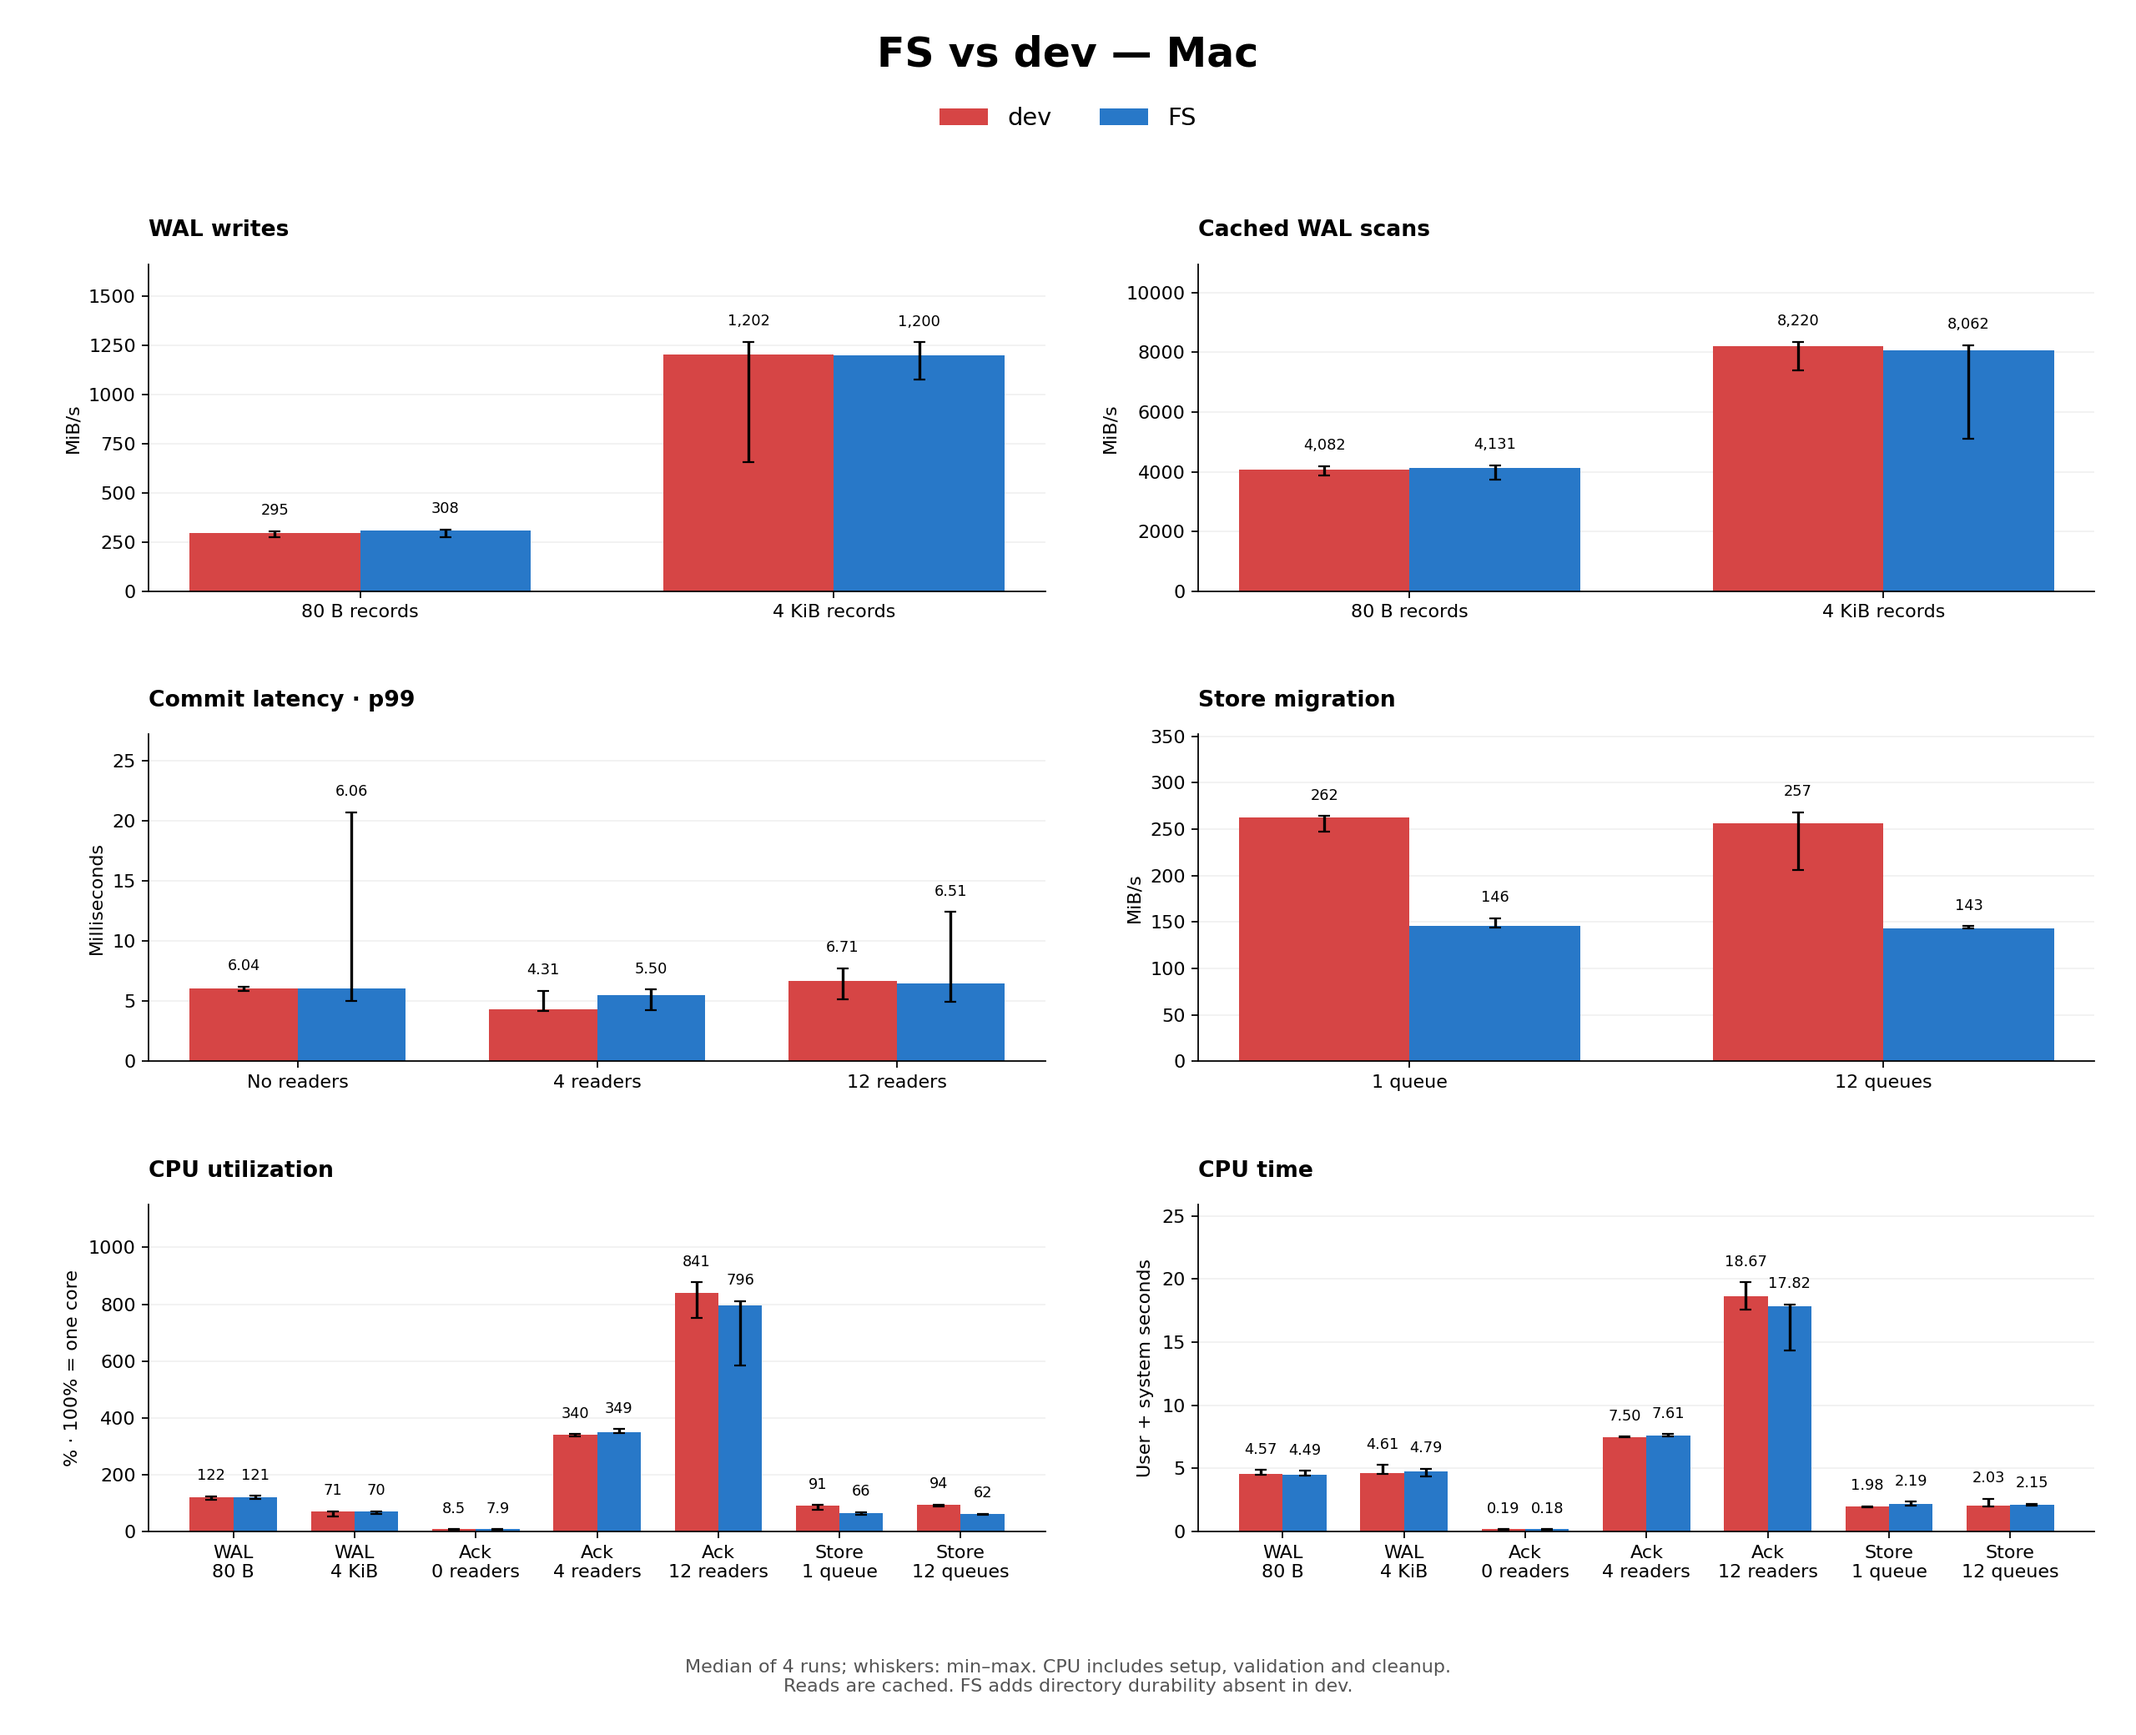
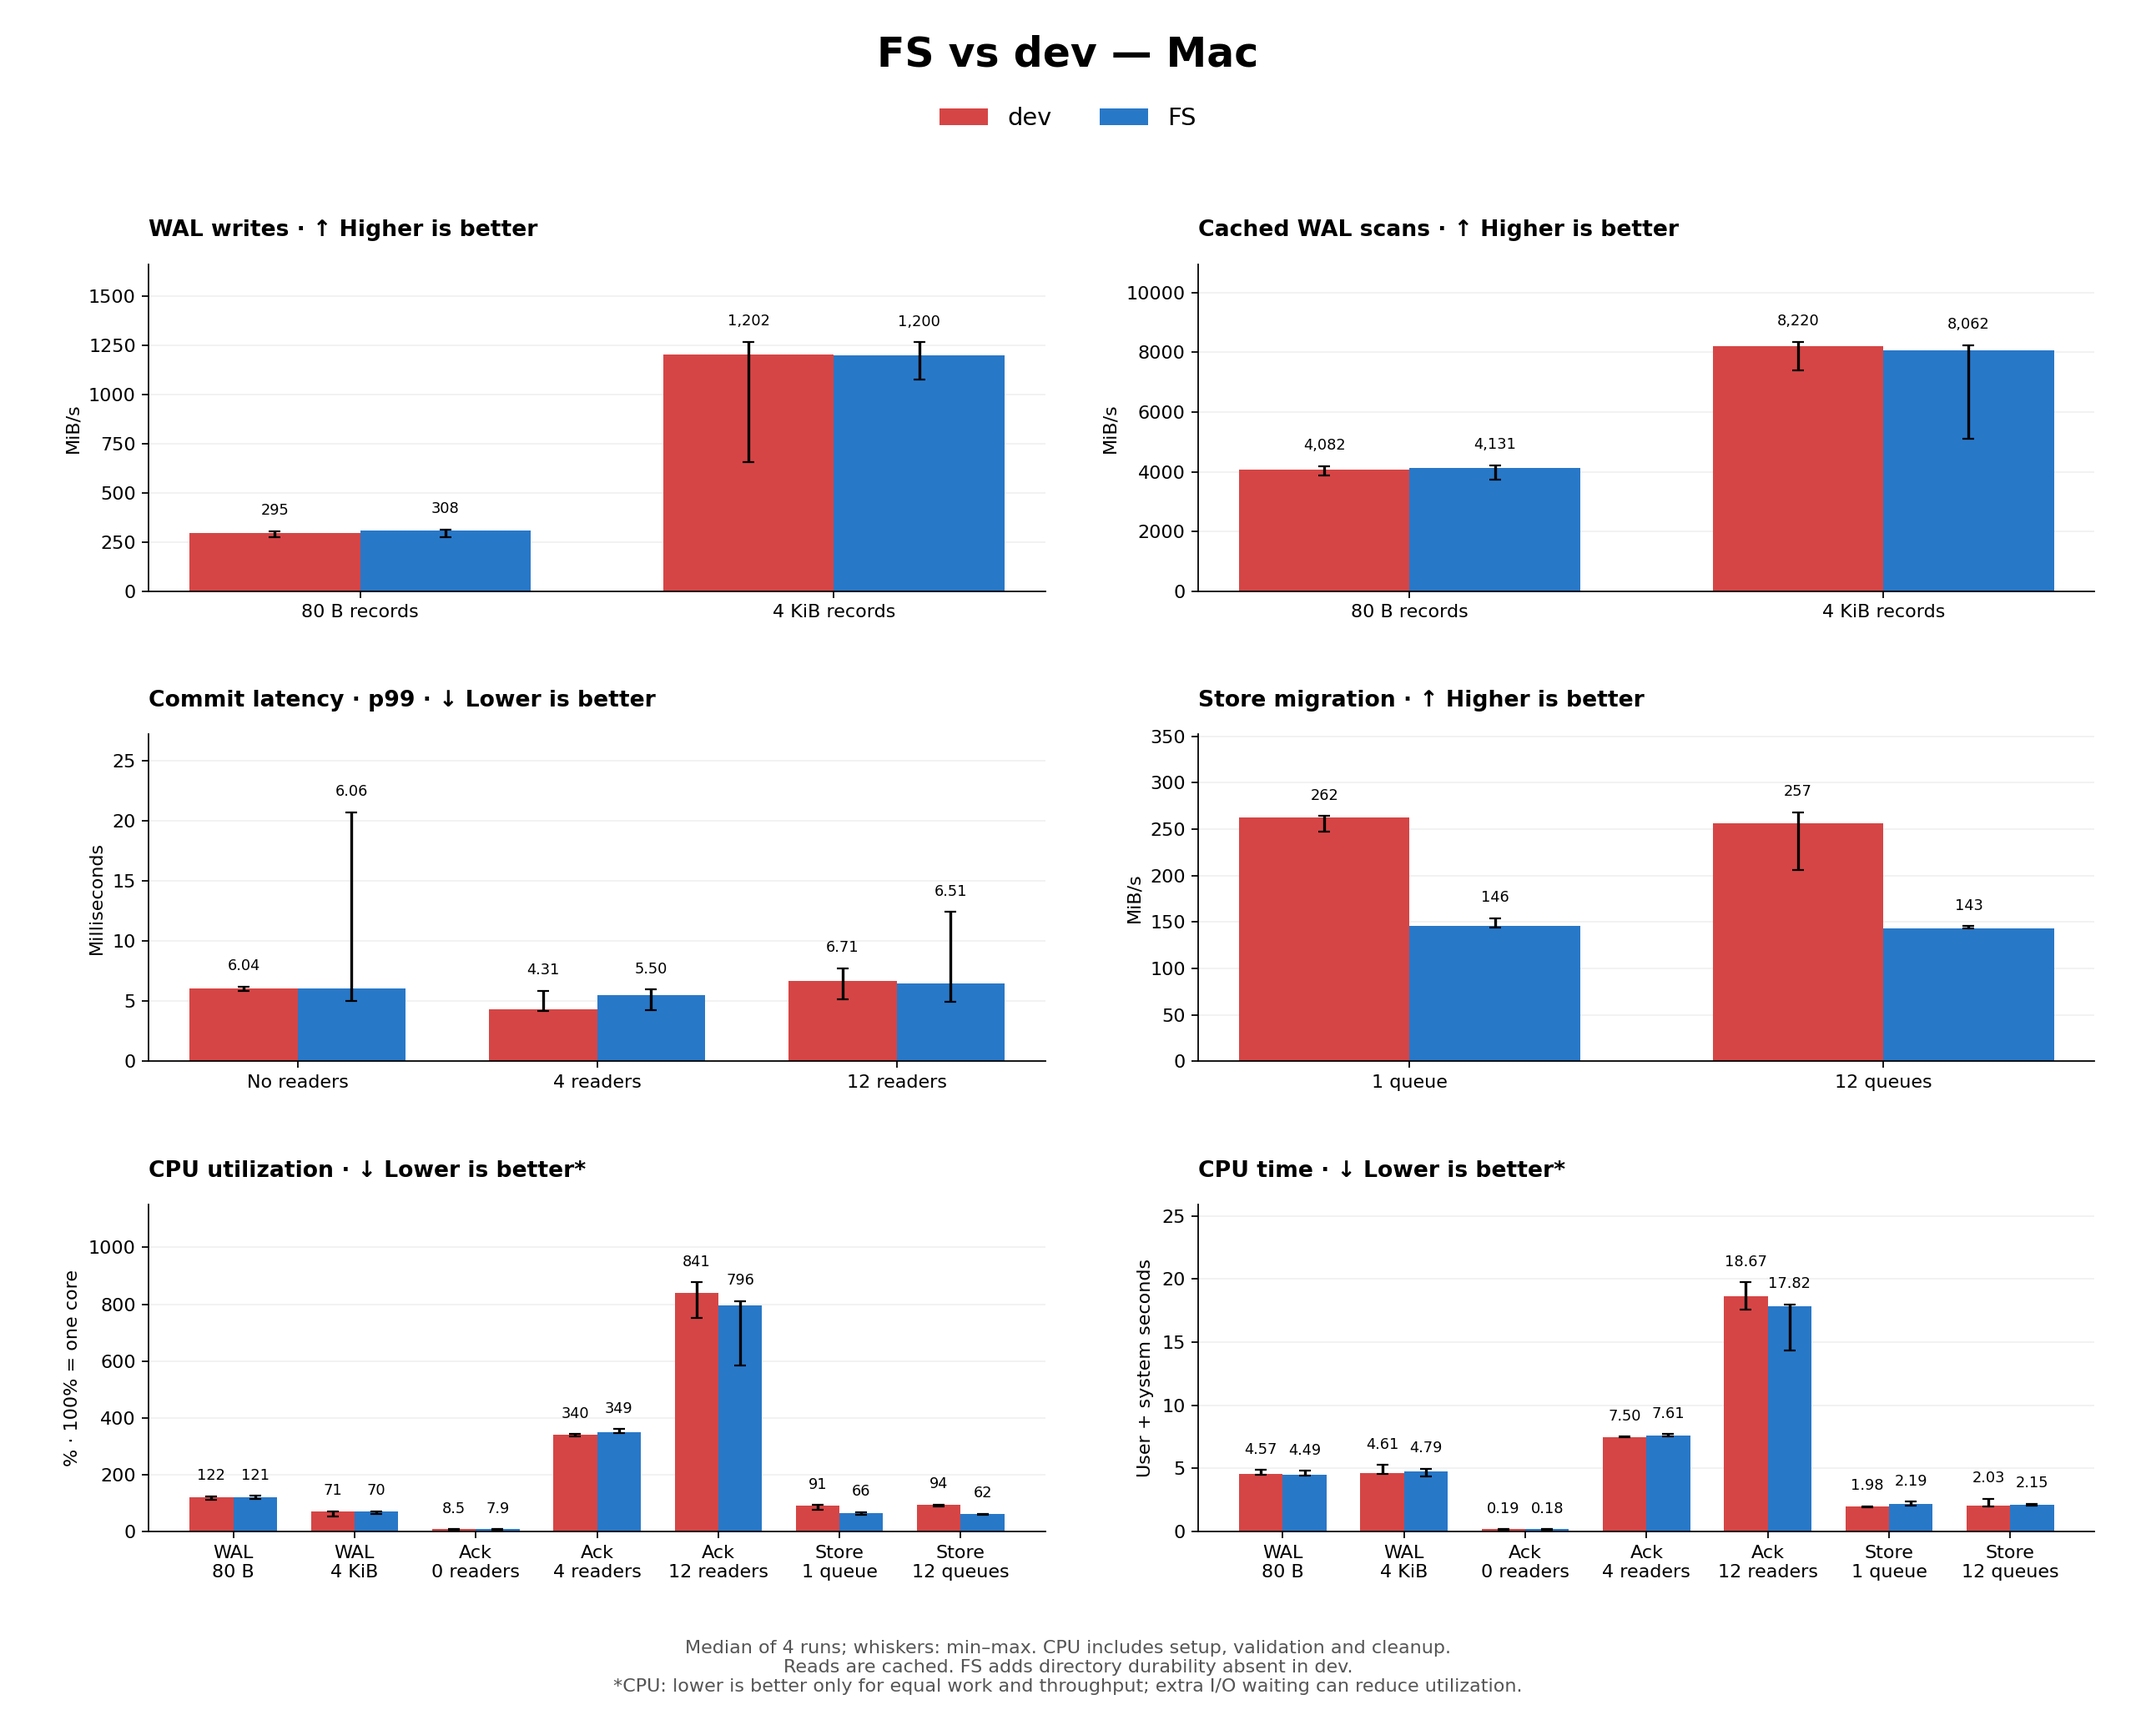
Label benchmark directions so throughput and cost are read correctly
Mark throughput as higher-is-better and latency and CPU cost as lower-is-better. Qualify CPU comparisons by equal work and throughput because I/O waiting can lower utilization. Regenerate the chart from the existing verified measurements.

diff --git a/scripts/measure-fs-local.py b/scripts/measure-fs-local.py
@@ -139,20 +139,21 @@ def plot(output):
 
     throughput = ["throughput_80", "throughput_4096"]
     latency = ["latency_0", "latency_4", "latency_12"]
-    panel(axes[0, 0], throughput, "write_mib_s", "WAL writes", "MiB/s", ["80 B records", "4 KiB records"])
-    panel(axes[0, 1], throughput, "scan_mib_s", "Cached WAL scans", "MiB/s", ["80 B records", "4 KiB records"])
-    panel(axes[1, 0], latency, "p99_ms", "Commit latency · p99", "Milliseconds", ["No readers", "4 readers", "12 readers"])
-    panel(axes[1, 1], ["publication_1", "publication_12"], "publish_mib_s", "Store migration", "MiB/s", ["1 queue", "12 queues"])
+    panel(axes[0, 0], throughput, "write_mib_s", "WAL writes · ↑ Higher is better", "MiB/s", ["80 B records", "4 KiB records"])
+    panel(axes[0, 1], throughput, "scan_mib_s", "Cached WAL scans · ↑ Higher is better", "MiB/s", ["80 B records", "4 KiB records"])
+    panel(axes[1, 0], latency, "p99_ms", "Commit latency · p99 · ↓ Lower is better", "Milliseconds", ["No readers", "4 readers", "12 readers"])
+    panel(axes[1, 1], ["publication_1", "publication_12"], "publish_mib_s", "Store migration · ↑ Higher is better", "MiB/s", ["1 queue", "12 queues"])
     all_cases = [case for case, _, _ in CASES]
     labels = ["WAL\n80 B", "WAL\n4 KiB", "Ack\n0 readers", "Ack\n4 readers", "Ack\n12 readers", "Store\n1 queue", "Store\n12 queues"]
-    panel(axes[2, 0], all_cases, "cpu_percent", "CPU utilization", "% · 100% = one core", labels)
-    panel(axes[2, 1], all_cases, "cpu_seconds", "CPU time", "User + system seconds", labels)
+    panel(axes[2, 0], all_cases, "cpu_percent", "CPU utilization · ↓ Lower is better*", "% · 100% = one core", labels)
+    panel(axes[2, 1], all_cases, "cpu_seconds", "CPU time · ↓ Lower is better*", "User + system seconds", labels)
     fig.suptitle("FS vs dev — Mac" if len(versions) == 2 else "FS — Mac", fontsize=22, weight="bold", y=0.98)
     handles, labels = axes[0, 0].get_legend_handles_labels()
     fig.legend(handles, labels, loc="upper center", bbox_to_anchor=(0.5, 0.951), ncol=2, frameon=False, fontsize=13)
     caveat = "Reads are cached."
     if len(versions) == 2:
         caveat += " FS adds directory durability absent in dev."
+    caveat += "\n*CPU: lower is better only for equal work and throughput; extra I/O waiting can reduce utilization."
     fig.text(0.5, 0.025,
              f"Median of {metadata['rounds']} runs; whiskers: min–max. CPU includes setup, validation and cleanup.\n"
              + caveat,
